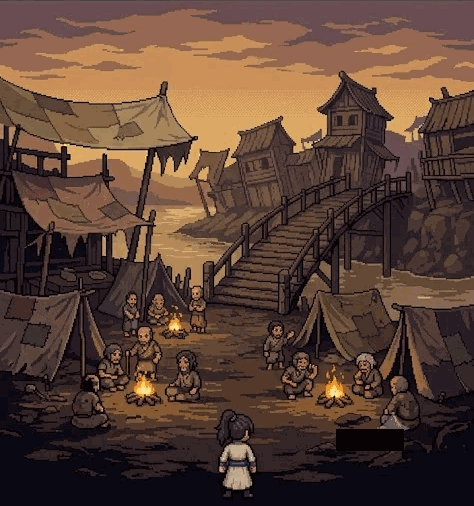
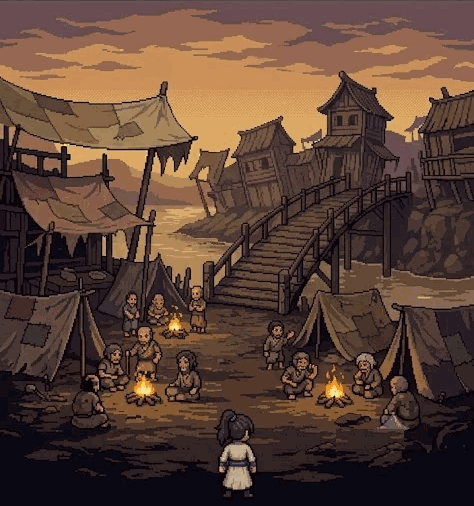
v2.94.10 — 본진 로딩 일러스트 7문파(마교 제외) · ✦ 지우기를 옆 띠 복사로, 큰 덩어리는 건드리지 않음
Claude-Session: https://claude.ai/code/session_01JNaHhiKtytcgy14ocCuYm4

Changed region(s): [[0.7089, 0.83, 0.8565, 0.8893]]

diff --git a/hqloadart.py b/hqloadart.py
@@ -27,11 +27,20 @@ if n:
     y0, y1, x0, x1 = ys.min()+cy, ys.max()+cy+1, xs.min()+cx, xs.max()+cx+1
     pad = 6
     y0, y1, x0, x1 = max(0,y0-pad), min(H,y1+pad), max(0,x0-pad), min(W,x1+pad)
-    if kind == 'frame':
-        a[y0:y1, x0:x1] = a[y0:y1, W-x1:W-x0][:, ::-1]      # 거울 자리 복사
+    big = (y1-y0) > H*0.09 or (x1-x0) > W*0.16
+    if big:
+        # 안개·수풀처럼 큰 밝은 덩어리는 ✦ 가 아니다 — 건드리면 그림에 구멍이 난다
+        print('✦ 아님(너무 큼 %dx%d) — 그대로 둔다' % (x1-x0, y1-y0))
+    elif kind == 'ink':
+        a[y0:y1, x0:x1, :3] = 0; a[y0:y1, x0:x1, 3] = 255   # 먹은 검게
+        print('✦ 지움 (%d,%d %dx%d)' % (x0, y0, x1-x0, y1-y0))
     else:
-        a[y0:y1, x0:x1, :3] = 0; a[y0:y1, x0:x1, 3] = 255   # 검게
-    print('✦ 지움 (%d,%d %dx%d)' % (x0, y0, x1-x0, y1-y0))
+        # 테두리·일러스트는 **왼쪽으로 같은 크기 띠를 복사**해 메운다(bg_extract 와 같은 방식 —
+        # 평균색으로 칠하면 상자가 남는다). 왼쪽이 모자라면 거울 자리에서 가져온다.
+        w0 = x1 - x0
+        src = a[y0:y1, x0-w0:x0] if x0 - w0 >= 0 else a[y0:y1, W-x1:W-x0][:, ::-1]
+        a[y0:y1, x0:x1] = src
+        print('✦ 지움 (%d,%d %dx%d) ← 옆 띠 복사' % (x0, y0, x1-x0, y1-y0))
 
 # 체커 무늬로 구워진 '투명' 자리를 진짜 투명으로 (v2.94.9) — 제미나이가 투명을 격자 그림으로 그려 준다.
 # 가운데에서 번지며 두 격자 색만 지나간다(어두운 먹 테두리에서 멈춘다). 바깥 종이(흰색)는 테두리 밖이라 안 먹힌다.

diff --git a/VERSION.md b/VERSION.md
@@ -1,3 +1,8 @@
+# v2.94.10 — 본진 로딩 일러스트 7문파 (사용자 시트, 2026-09-17)
+
+- 무당·화산·아미·당문·청죽문 추가 → 마교만 남았다(용암 안 쓰는 프롬프트로 다시 받는다). 검사판 review/hq_art_all.png.
+- hqloadart 의 ✦ 지우기: 일러스트·테두리는 **옆 띠 복사**(검게 칠하면 그림에 구멍), 그림 대비 9%/16% 보다 크면 ✦ 가 아니라고 보고 건드리지 않는다(무당 안개 덩어리를 ✦ 로 오인해 검은 상자가 났다).
+
 # v2.94.9 — 본진 로딩 화면 그림 붙임: 소림·개방 일러스트 + 공통 테두리·먹 번짐 (사용자 시트, 2026-09-17)
 
 - `hqloadart.py <art|frame|ink> <원본> [문파키]`: ✦ 지움 · 격자로 구워진 '투명' 을 진짜 투명으로 · 크기/형식 정리(일러스트 480 팔레트 128 · 테두리 560 LA · 먹 512 회색 48).
